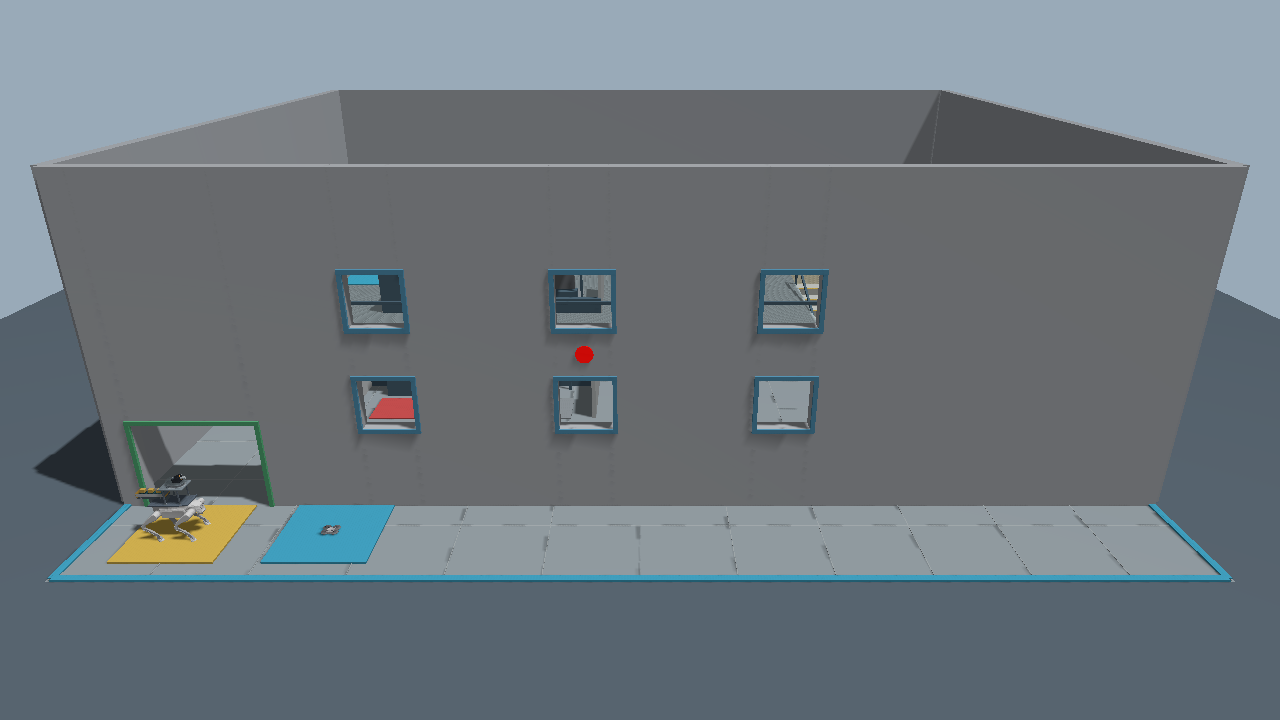
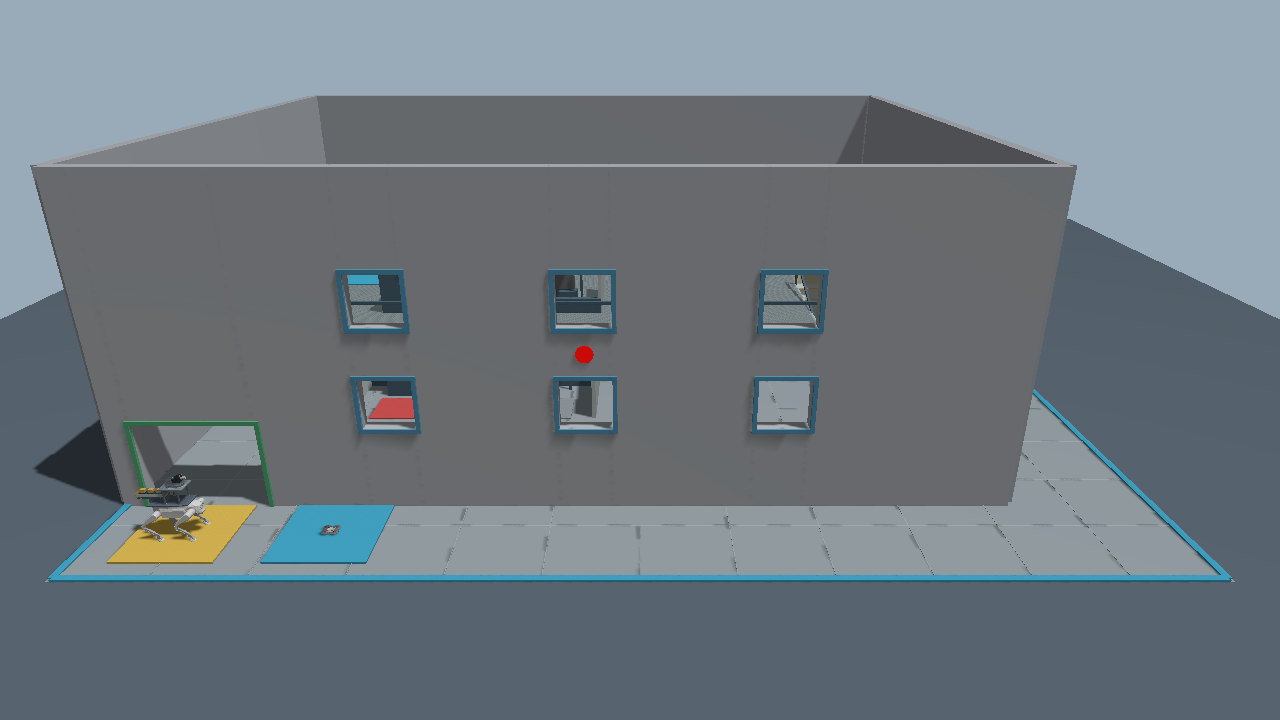
Bring upper and right exterior walls flush with the second floor

Changed region(s): [[0.25, 0.1222, 0.9688, 0.3972], [0.7812, 0.55, 0.9062, 0.7028], [0.625, 0.3667, 0.6562, 0.4278]]

diff --git a/docs/MAP_VALIDATION.md b/docs/MAP_VALIDATION.md
@@ -1,10 +1,12 @@
-# 地图调整验收（2026-10-21，v1.5.0）
+# 地图调整验收（2026-10-21，v1.6.0）
 
-## 楼梯朝向修正
+## 外墙收拢
 
 - 楼梯低端入口朝俯视图下侧，位于 Y=5.1 m；从下向上爬升，八级台阶占 Y=5.1–7.5 m，高端转向平台位于 Y=7.5–9.1 m。
 - 二层外轮廓仍为 X=0.3–10.2 m、Y=5.1–9.1 m，高度 0.8 m。楼梯宽 1.4 m、级高 0.1 m、踏面 0.3 m，内嵌于二层右侧。
-- 仅调整楼梯、平台连接及对应路线；逐项比较确认其余实体、六个目标、集合区、窗户、无人机巡航位置和两机模型保持上一版一致。
+- 图中上方墙中心 Y=9.18 m、右墙中心 X=10.28 m，墙厚 0.16 m；墙内侧分别为 Y=9.1 m、X=10.2 m，与二层外缘齐平。建筑内部净尺寸约 10.12 × 7.52 m。
+- 下方门窗墙和左墙位置不变。地面底板保留 12 × 10.4 m，收拢后露出的部分为楼外区域。
+- 路线、楼梯、目标、集合区、窗户、无人机巡航位置和两机模型保持上一版一致。
 - 1/2/3 号目标位于 Y=4.3 m；4/5/6 号目标位于二层下侧 Y=6.5 m。目标列 X=2.5 / 4.7 / 6.9 m，顶部数字正向可读。
 - 1 号目标最左边缘 X=1.8225 m，位于门洞右边界 X=1.7 m 以右。
 - 六窗列中心 X=3.2 / 5.4 / 7.6 m，净开口 0.6 × 0.6 m、统一蓝框；最右窗框 X=7.95 m，小于楼梯左边界 X=8.8 m。
@@ -17,7 +19,7 @@
 完成穿窗、首报、进门、打靶、从下侧梯脚爬上八级台阶、两次投放，以及左上角两机集合。
 
 - 两次投放误差 0.1138 m、0.1576 m，均小于 0.2 m。
-- D1 集合误差 0.0895 m；Tello 水平误差 0.0000 m。
+- D1 集合误差 0.0896 m；Tello 水平误差 0.0000 m。
 - Tello 在 281.541 秒实际接触 `upper_platform` 停稳并停止旋翼；降落后与 D1 最小水平距离 1.567 m。
 - 无人机与机器狗均只从规定入口入楼一次；无人机留在二楼集合，不需要穿窗出楼。
 - 未修改控制器和冻结权重，没有初始化后的机体位姿覆盖或机器狗外加抬升力。

diff --git a/README.md b/README.md
@@ -26,7 +26,7 @@ sudo apt install build-essential cmake python3-colcon-common-extensions \
 
 mkdir -p ~/d1_ws/src
 # 将收到的压缩包放入当前目录；解压后为 src/d1_tello_competition
-tar -xzf d1_tello_competition_student_20261021_v1.5.0.tar.gz -C ~/d1_ws/src
+tar -xzf d1_tello_competition_student_20261021_v1.6.0.tar.gz -C ~/d1_ws/src
 cd ~/d1_ws
 colcon build --packages-select d1_tello_competition --cmake-args -DCMAKE_BUILD_TYPE=Release
 source install/setup.bash
@@ -43,7 +43,7 @@ ros2 launch d1_tello_competition competition.launch.py
 ```
 
 自动播放完整比赛，约 5 分钟仿真时间。窗口中可拖动、缩放查看场景；Ctrl+C 退出。
-场地为 12 × 10.4 m，二层高 0.8 m、进深 4.0 m；楼梯嵌入二层右侧缺口，低端入口朝俯视图下侧，机器狗朝图中上方上楼。
+地面底板为 12 × 10.4 m；建筑内侧净尺寸约 10.12 × 7.52 m，上方及右侧外墙内面贴齐二层外缘。二层高 0.8 m、进深 4.0 m；楼梯嵌入二层右侧缺口，低端入口朝俯视图下侧，机器狗朝图中上方上楼。
 二层范围为 Y=5.1–9.1 m；梯脚在 Y=5.1 m，高端转向平台在 Y=7.5–9.1 m。
 8 级楼梯每级高 0.1 m、踏面 0.3 m、宽 1.4 m，保留上层转向平台。目标列横坐标为 2.5、4.7、6.9 m。
 1–3 号目标移至 Y=4.3 m，4–6 号目标位于二层下侧 Y=6.5 m，开口朝图中上方。
